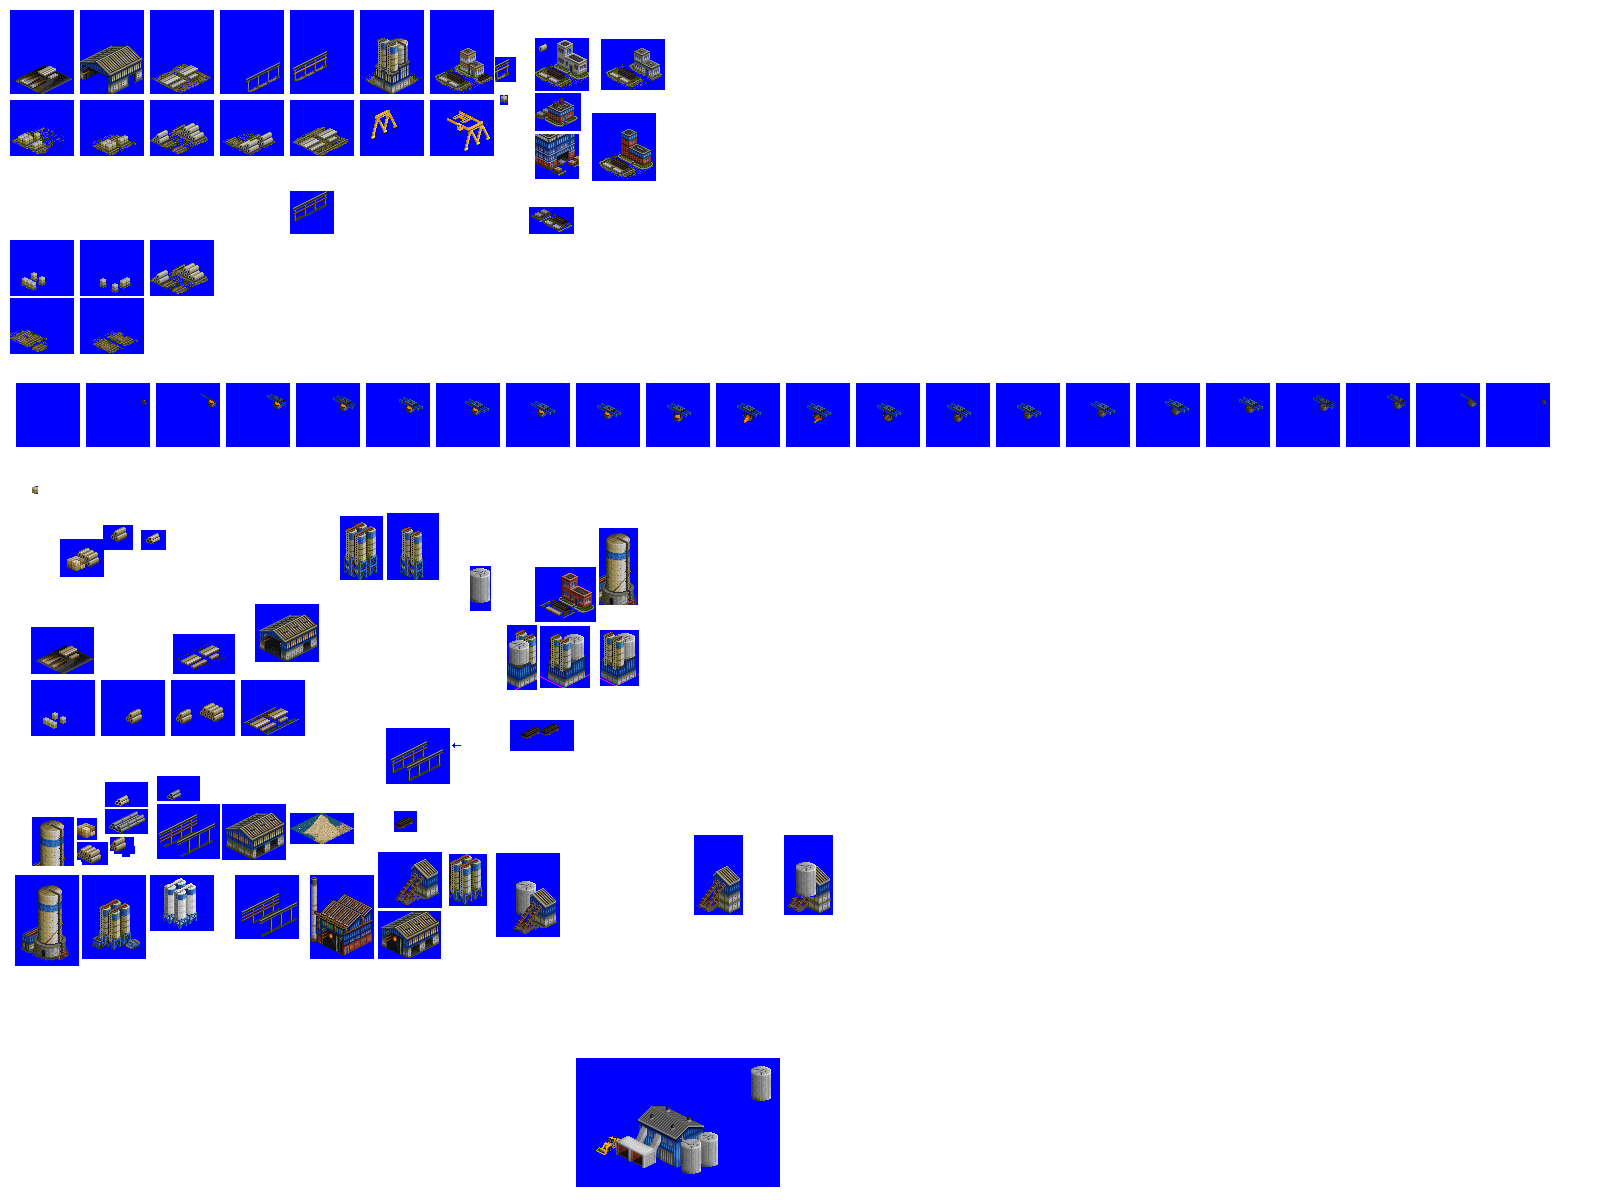
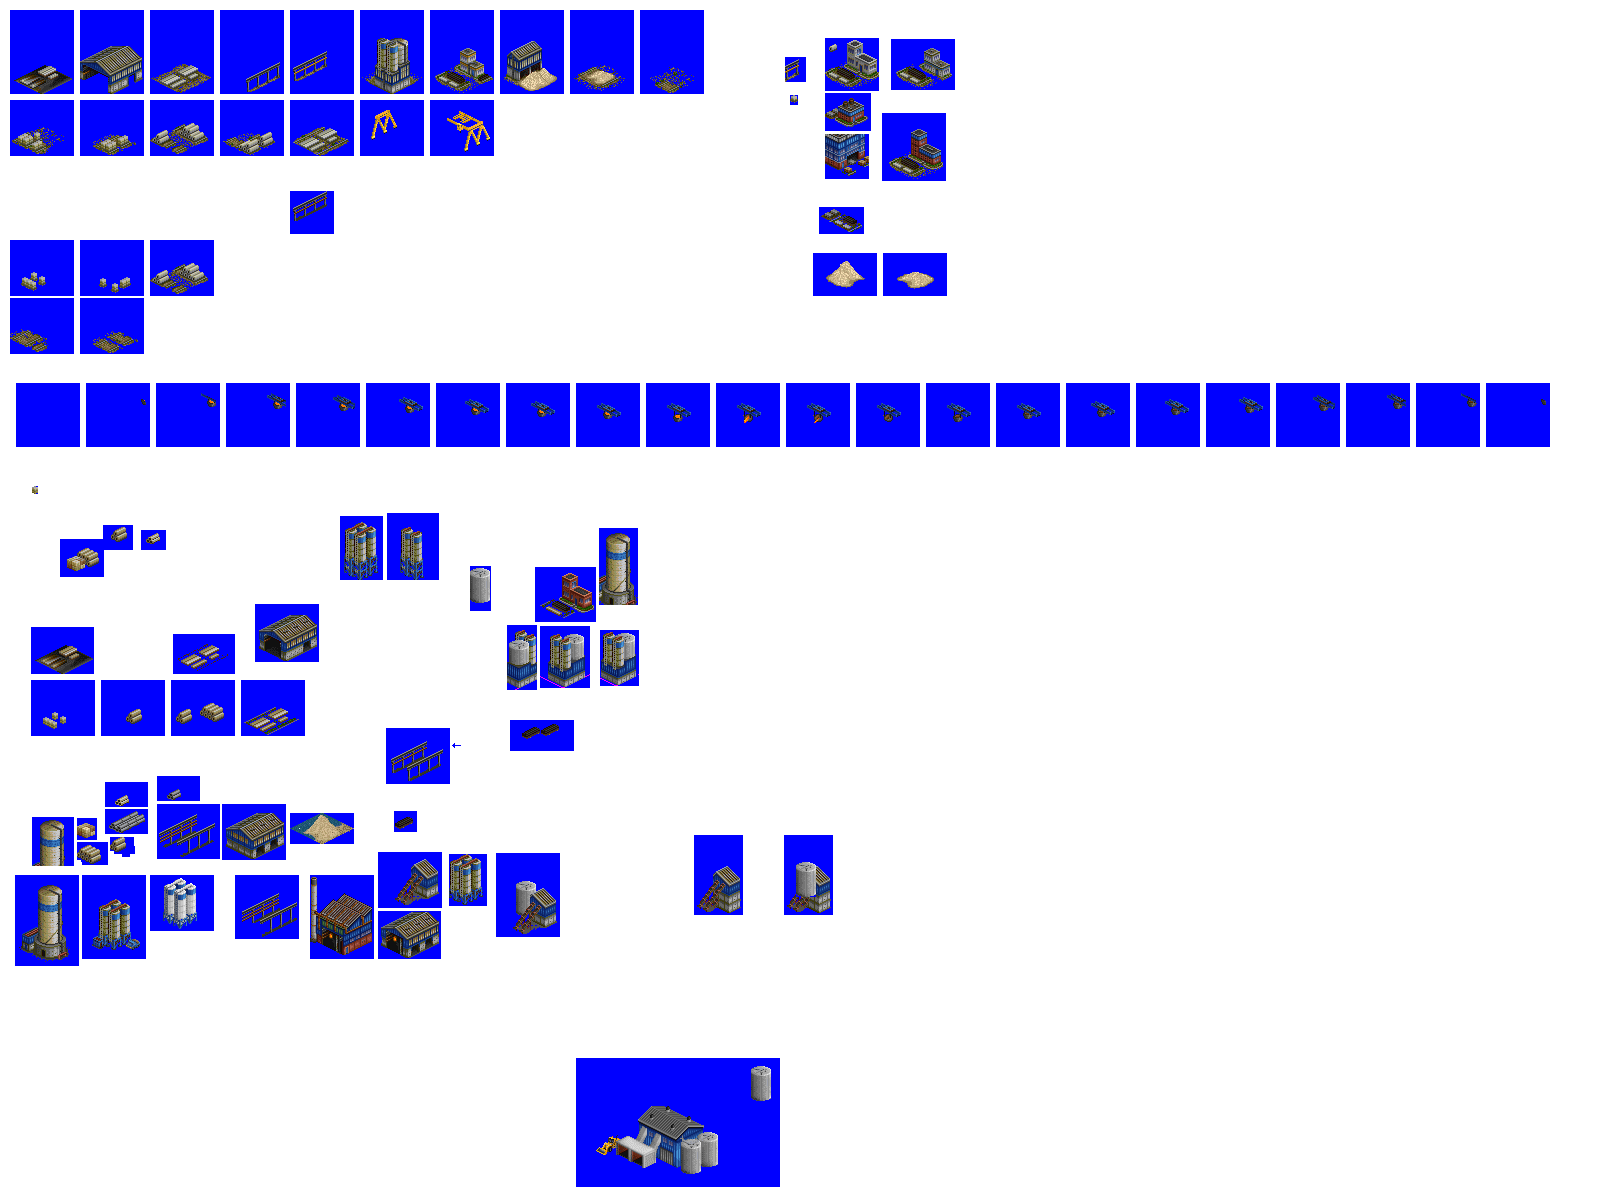
Change: more objects for concrete plant

Changed region(s): [[0.3125, 0.0, 0.4375, 0.2158], [0.4688, 0.0308, 0.5938, 0.2467]]

diff --git a/src/industries/concrete_plant.py b/src/industries/concrete_plant.py
@@ -61,6 +61,15 @@ silo_1 = industry.add_spriteset(
 gatehouse_and_rebar = industry.add_spriteset(
     sprites=[(430, 10, 64, 84, -31, -53)],
 )
+aggregate_handling_1 = industry.add_spriteset(
+    sprites=[(500, 10, 64, 84, -31, -53)],
+)
+aggregate_handling_2 = industry.add_spriteset(
+    sprites=[(570, 10, 64, 84, -31, -53)],
+)
+mostly_empty = industry.add_spriteset(
+    sprites=[(640, 10, 64, 84, -31, -53)],
+)
 blocks_1 = industry.add_spriteset(
     sprites=[(10, 100, 64, 56, -31, -26)],
 )
@@ -175,6 +184,39 @@ industry.add_spritelayout(
     ],
     fences=["nw", "ne", "se", "sw"],
     add_to_object_num=10,
+)
+industry.add_spritelayout(
+    id="concrete_plant_spritelayout_aggregate_handling_1",
+    tile="concrete_plant_tile_1",
+    ground_sprite=spriteset_ground,
+    ground_overlay=spriteset_ground_overlay,
+    building_sprites=[
+        aggregate_handling_1,
+    ],
+    fences=["nw", "ne", "se", "sw"],
+    add_to_object_num=11,
+)
+industry.add_spritelayout(
+    id="concrete_plant_spritelayout_aggregate_handling_2",
+    tile="concrete_plant_tile_1",
+    ground_sprite=spriteset_ground,
+    ground_overlay=spriteset_ground_overlay,
+    building_sprites=[
+        aggregate_handling_2,
+    ],
+    fences=["nw", "ne", "se", "sw"],
+    add_to_object_num=12,
+)
+industry.add_spritelayout(
+    id="concrete_plant_spritelayout_mostly_empty",
+    tile="concrete_plant_tile_1",
+    ground_sprite=spriteset_ground,
+    ground_overlay=spriteset_ground_overlay,
+    building_sprites=[
+        mostly_empty,
+    ],
+    fences=["nw", "ne", "se", "sw"],
+    add_to_object_num=13,
 )
 
 # this industry needs outpost layout as there are lots of cargos
